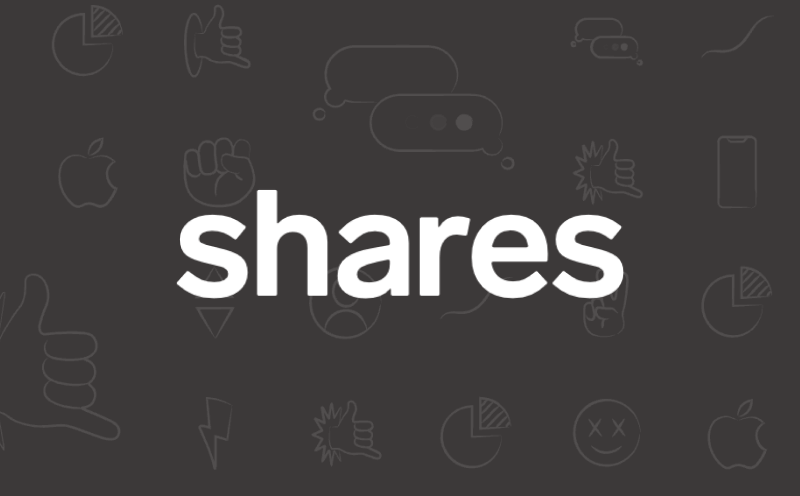
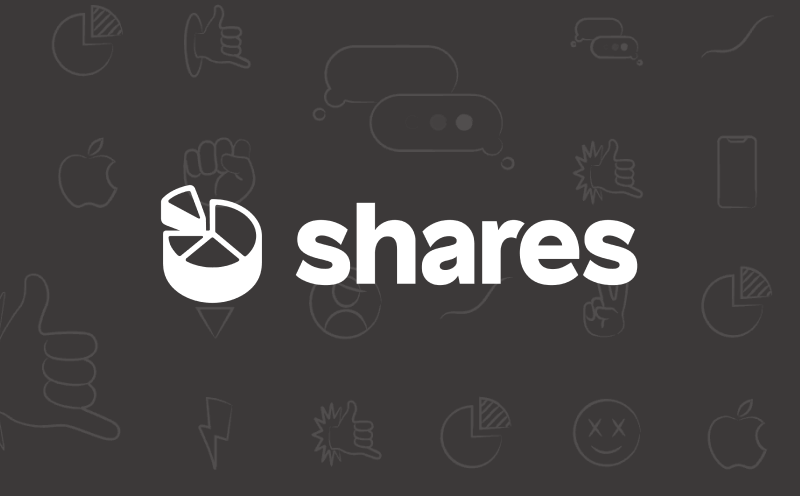
replace shares.io images. (#1765)

Changed region(s): [[0.1875, 0.3629, 0.8125, 0.6351]]

diff --git a/src/lib/contents/customers.ts b/src/lib/contents/customers.ts
@@ -22,8 +22,8 @@ export const quotes: Quote[] = [
     author: "François Ruty",
     jobTitle: "CTO at Shares.io",
     companyLogo: {
-      src: "/svg/customers/shares-io.svg",
-      alt: "Prisma",
+      src: "/images/customers/shares-io/shares-io.png",
+      alt: "Shares.io",
     },
     img: {
       src: "/images/customers/shares-io/quote.png",
